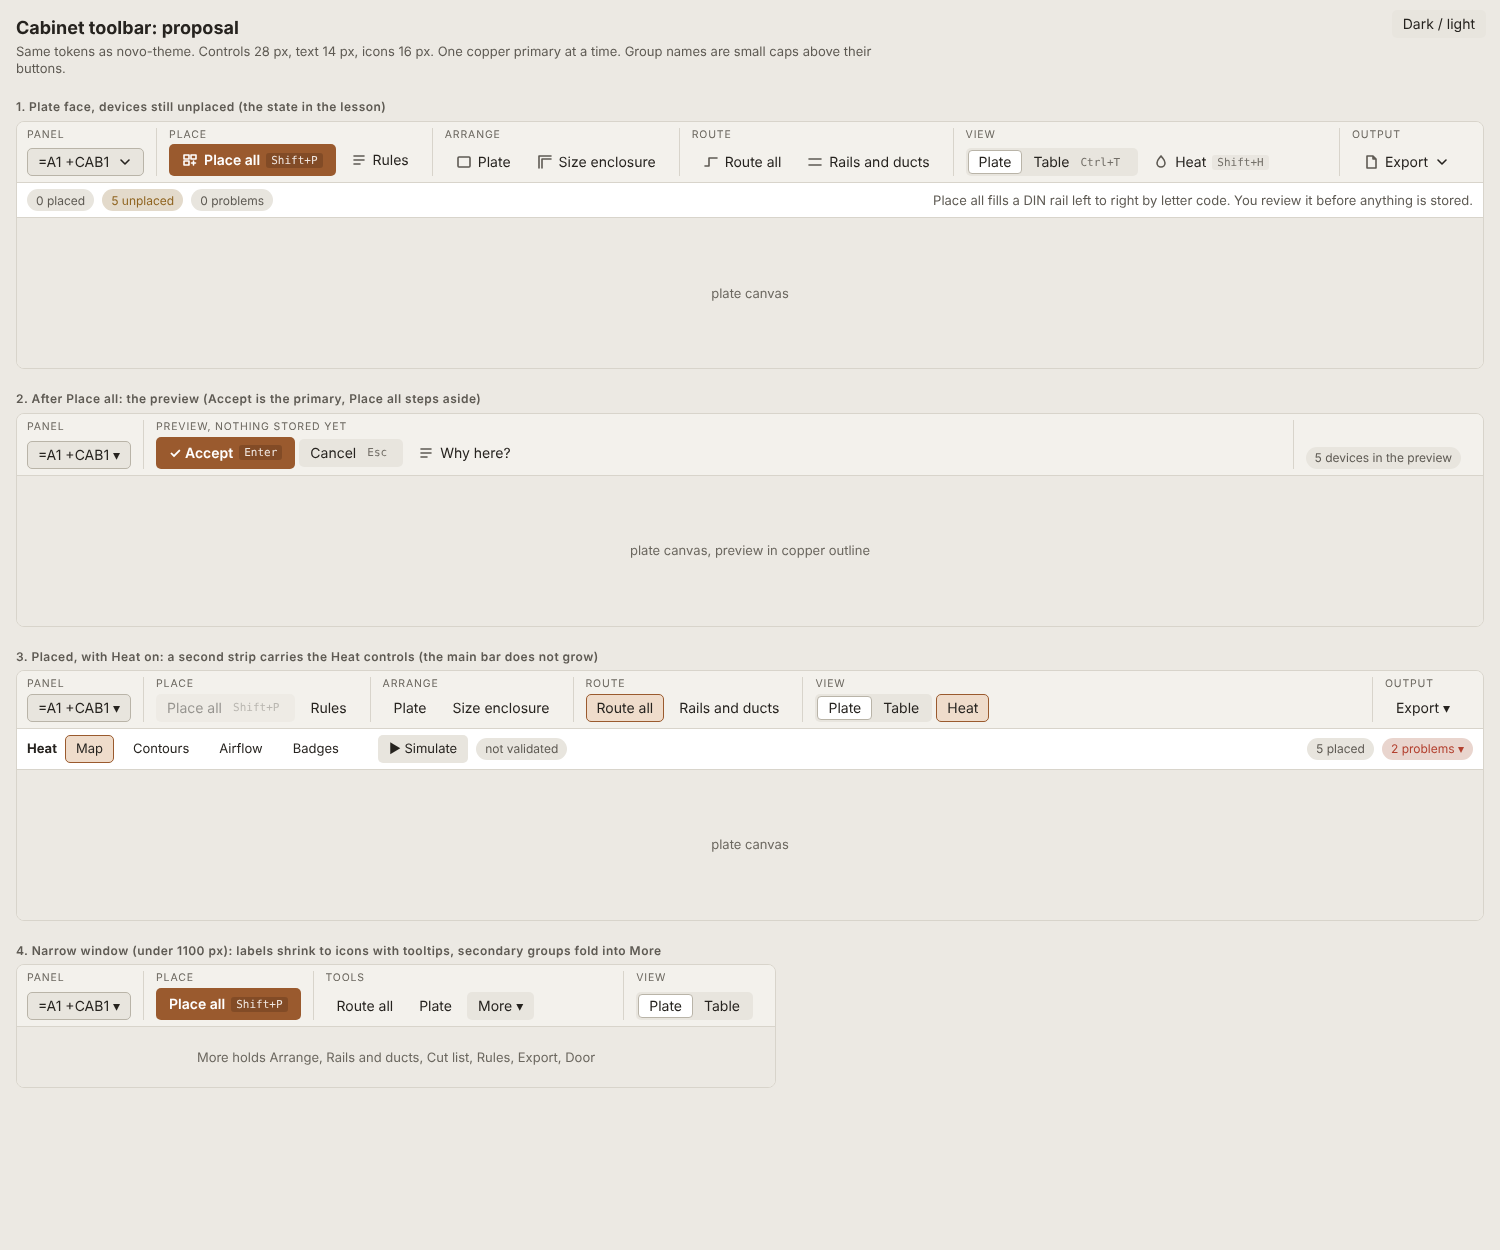
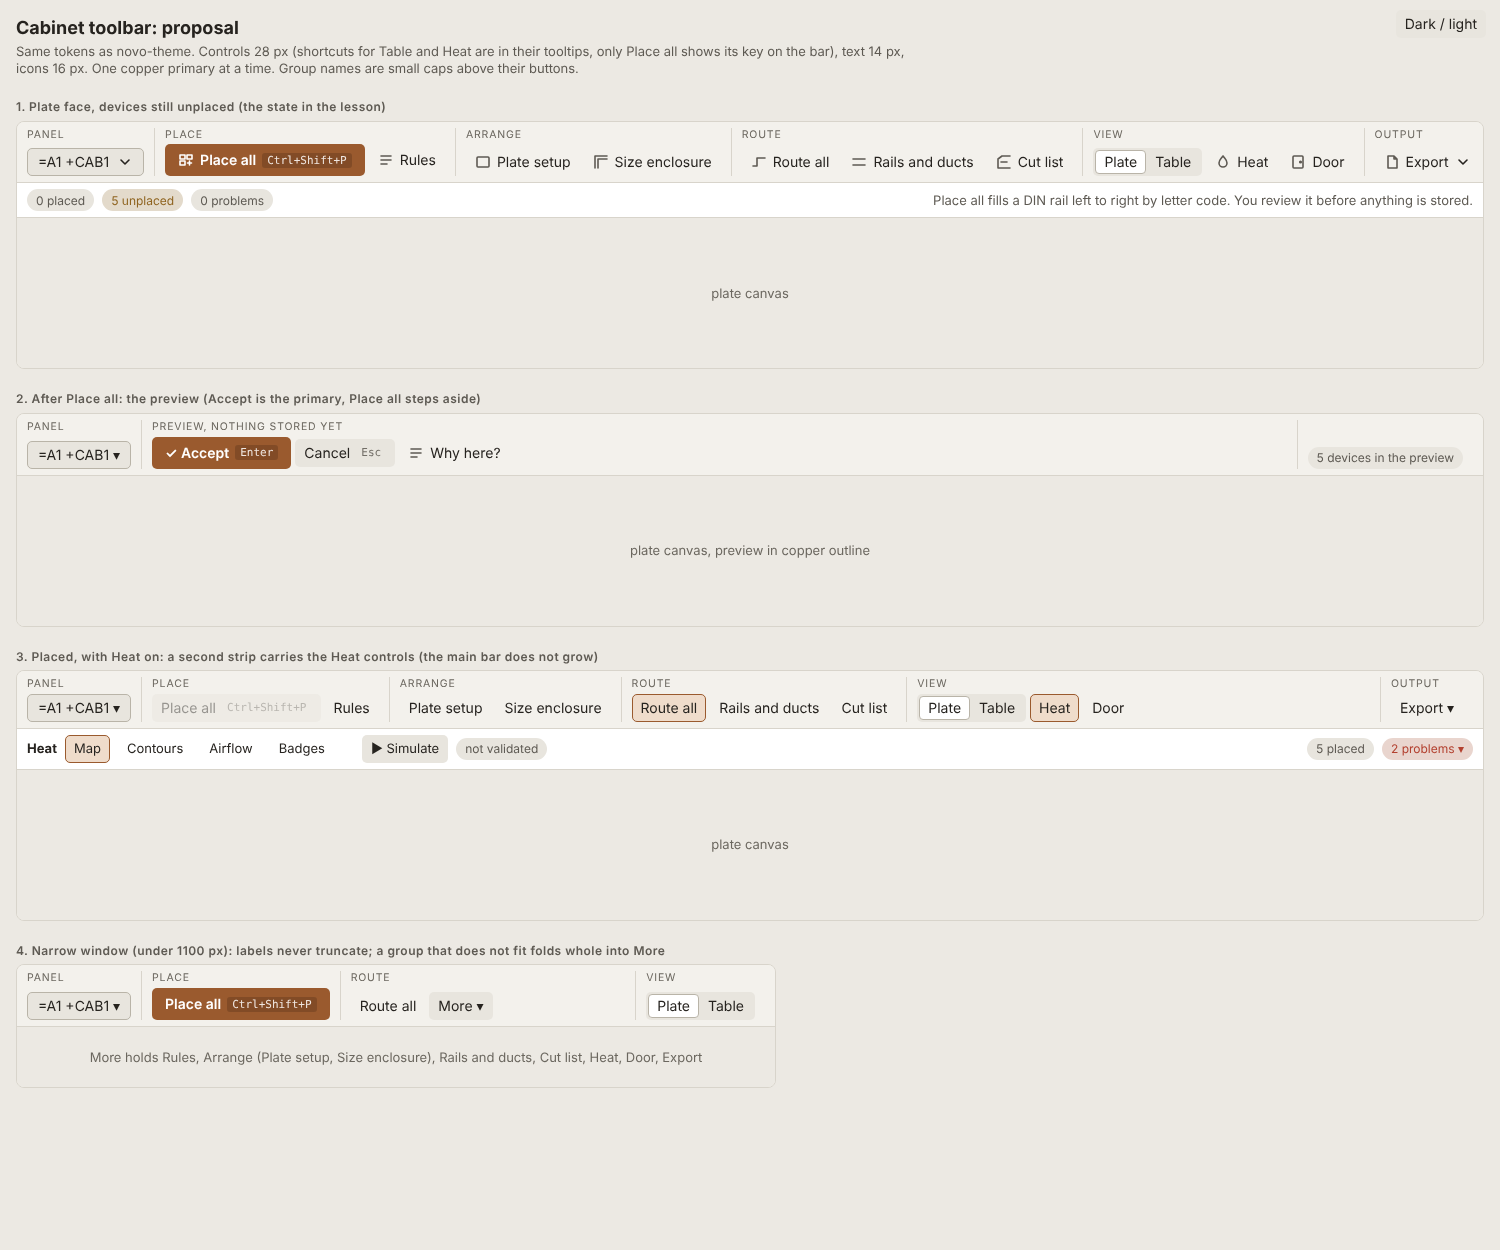
Cabinet toolbar design: Ctrl+Shift+P, Plate setup, one fold rule, mock matches note
Claude-Session: https://claude.ai/code/session_014tr2HBBMochu4Fr5mUf5Jp

diff --git a/docs/design/cabinet-toolbar/mock.html b/docs/design/cabinet-toolbar/mock.html
@@ -13,11 +13,11 @@
 .wrap{padding:16px;max-width:1500px}h2{font-size:12px;color:var(--muted);font-weight:600;margin:22px 0 6px;letter-spacing:.04em}
 .frame{background:var(--panel);border:1px solid var(--border);border-radius:8px;overflow:hidden}
 .bar{display:flex;align-items:stretch;gap:0;padding:6px 10px;border-bottom:1px solid var(--border);background:var(--panel);min-height:56px}
-.grp{display:flex;flex-direction:column;justify-content:space-between;padding:0 12px;border-left:1px solid var(--border)}
+.grp{display:flex;flex-direction:column;justify-content:space-between;padding:0 10px;border-left:1px solid var(--border)}
 .grp:first-child{border-left:0;padding-left:0}
 .cap{font-size:10.5px;letter-spacing:.08em;text-transform:uppercase;color:var(--faint);margin-bottom:3px}
 .row{display:flex;gap:4px;align-items:center}
-.btn{height:28px;display:inline-flex;align-items:center;gap:6px;padding:0 10px;border-radius:5px;border:1px solid transparent;background:transparent;color:var(--text);font:inherit;cursor:pointer;white-space:nowrap}
+.btn{height:28px;display:inline-flex;align-items:center;gap:6px;padding:0 8px;border-radius:5px;border:1px solid transparent;background:transparent;color:var(--text);font:inherit;cursor:pointer;white-space:nowrap}
 .btn:hover{background:var(--hover)}.btn.on{background:var(--wash);border-color:var(--accent);color:var(--text)}
 .btn.sec{background:var(--control)}.btn .i{width:16px;height:16px;display:inline-block;color:var(--muted)}
 .btn.on .i{color:var(--accent)}
@@ -28,7 +28,7 @@ kbd{font:11px ui-monospace,Consolas,monospace;background:rgba(0,0,0,.18);border-
 .btn:not(.primary) kbd{background:var(--control);color:var(--muted)}
 .seg{display:inline-flex;background:var(--control);border-radius:5px;padding:2px}.seg .btn{height:24px;border-radius:4px}
 .seg .btn.on{background:var(--raised);border-color:var(--border-strong)}
-.sel{height:28px;display:inline-flex;align-items:center;gap:8px;padding:0 10px;background:var(--control);border:1px solid var(--border-strong);border-radius:5px}
+.sel{white-space:nowrap;height:28px;display:inline-flex;align-items:center;gap:8px;padding:0 10px;background:var(--control);border:1px solid var(--border-strong);border-radius:5px}
 .pill{display:inline-flex;gap:6px;align-items:center;height:22px;padding:0 9px;border-radius:11px;font-size:12px;background:var(--control);color:var(--muted)}
 .pill.warn{background:color-mix(in srgb,var(--warn) 16%,var(--panel));color:var(--warn)}
 .pill.err{background:color-mix(in srgb,var(--err) 16%,var(--panel));color:var(--err)}
@@ -43,23 +43,25 @@ svg{width:16px;height:16px;stroke:currentColor;fill:none;stroke-width:1.6;stroke
 <div class="ctl"><button class="btn sec" onclick="var r=document.documentElement;r.dataset.theme=r.dataset.theme==='light'?'dark':'light'">Dark / light</button></div>
 <div class="wrap">
 <h1 style="font-size:18px;margin:0">Cabinet toolbar: proposal</h1>
-<p class="note">Same tokens as novo-theme. Controls 28 px, text 14 px, icons 16 px. One copper primary at a time. Group names are small caps above their buttons.</p>
+<p class="note">Same tokens as novo-theme. Controls 28 px (shortcuts for Table and Heat are in their tooltips, only Place all shows its key on the bar), text 14 px, icons 16 px. One copper primary at a time. Group names are small caps above their buttons.</p>
 
 <h2>1. Plate face, devices still unplaced (the state in the lesson)</h2>
 <div class="frame"><div class="bar">
  <div class="grp"><div class="cap">Panel</div><div class="row"><span class="sel">=A1 +CAB1 <svg viewBox="0 0 16 16"><path d="M4 6l4 4 4-4"/></svg></span></div></div>
  <div class="grp"><div class="cap">Place</div><div class="row">
-  <button class="btn primary"><span class="i"><svg viewBox="0 0 16 16"><path d="M2 3h5v4H2zM9 3h5v4H9zM2 9h5v4H2z"/><path d="M11.5 9v4M9.5 11h4"/></svg></span>Place all <kbd>Shift+P</kbd></button>
+  <button class="btn primary"><span class="i"><svg viewBox="0 0 16 16"><path d="M2 3h5v4H2zM9 3h5v4H9zM2 9h5v4H2z"/><path d="M11.5 9v4M9.5 11h4"/></svg></span>Place all <kbd>Ctrl+Shift+P</kbd></button>
   <button class="btn"><span class="i"><svg viewBox="0 0 16 16"><path d="M3 4h10M3 8h10M3 12h6"/></svg></span>Rules</button></div></div>
  <div class="grp"><div class="cap">Arrange</div><div class="row">
-  <button class="btn"><span class="i"><svg viewBox="0 0 16 16"><rect x="2" y="3" width="12" height="10" rx="1"/></svg></span>Plate</button>
+  <button class="btn"><span class="i"><svg viewBox="0 0 16 16"><rect x="2" y="3" width="12" height="10" rx="1"/></svg></span>Plate setup</button>
   <button class="btn"><span class="i"><svg viewBox="0 0 16 16"><path d="M2 14V2h12M5 14V5h9"/></svg></span>Size enclosure</button></div></div>
  <div class="grp"><div class="cap">Route</div><div class="row">
   <button class="btn"><span class="i"><svg viewBox="0 0 16 16"><path d="M2 12h4V4h8"/></svg></span>Route all</button>
-  <button class="btn"><span class="i"><svg viewBox="0 0 16 16"><path d="M2 5h12M2 11h12"/></svg></span>Rails and ducts</button></div></div>
+  <button class="btn"><span class="i"><svg viewBox="0 0 16 16"><path d="M2 5h12M2 11h12"/></svg></span>Rails and ducts</button>
+  <button class="btn"><span class="i"><svg viewBox="0 0 16 16"><path d="M2 5l4-3 8 0M2 5v9h12M5 8h6"/></svg></span>Cut list</button></div></div>
  <div class="grp"><div class="cap">View</div><div class="row">
-  <span class="seg"><button class="btn on">Plate</button><button class="btn">Table <kbd>Ctrl+T</kbd></button></span>
-  <button class="btn"><span class="i"><svg viewBox="0 0 16 16"><path d="M8 2c2 3 4 4 4 7a4 4 0 0 1-8 0c0-3 2-4 4-7z"/></svg></span>Heat <kbd>Shift+H</kbd></button></div></div>
+  <span class="seg"><button class="btn on">Plate</button><button class="btn">Table</button></span>
+  <button class="btn"><span class="i"><svg viewBox="0 0 16 16"><path d="M8 2c2 3 4 4 4 7a4 4 0 0 1-8 0c0-3 2-4 4-7z"/></svg></span>Heat</button>
+  <button class="btn"><span class="i"><svg viewBox="0 0 16 16"><rect x="3" y="2" width="10" height="12" rx="1"/><circle cx="10.5" cy="8" r=".8"/></svg></span>Door</button></div></div>
  <div class="sp"></div>
  <div class="grp"><div class="cap">Output</div><div class="row">
   <button class="btn"><span class="i"><svg viewBox="0 0 16 16"><path d="M4 2h6l3 3v9H4zM10 2v3h3"/></svg></span>Export <svg viewBox="0 0 16 16"><path d="M4 6l4 4 4-4"/></svg></button></div></div>
@@ -79,20 +81,20 @@ svg{width:16px;height:16px;stroke:currentColor;fill:none;stroke-width:1.6;stroke
 <h2>3. Placed, with Heat on: a second strip carries the Heat controls (the main bar does not grow)</h2>
 <div class="frame"><div class="bar">
  <div class="grp"><div class="cap">Panel</div><div class="row"><span class="sel">=A1 +CAB1 ▾</span></div></div>
- <div class="grp"><div class="cap">Place</div><div class="row"><button class="btn sec dis">Place all <kbd>Shift+P</kbd></button><button class="btn">Rules</button></div></div>
- <div class="grp"><div class="cap">Arrange</div><div class="row"><button class="btn">Plate</button><button class="btn">Size enclosure</button></div></div>
- <div class="grp"><div class="cap">Route</div><div class="row"><button class="btn on">Route all</button><button class="btn">Rails and ducts</button></div></div>
- <div class="grp"><div class="cap">View</div><div class="row"><span class="seg"><button class="btn on">Plate</button><button class="btn">Table</button></span><button class="btn on">Heat</button></div></div>
+ <div class="grp"><div class="cap">Place</div><div class="row"><button class="btn sec dis">Place all <kbd>Ctrl+Shift+P</kbd></button><button class="btn">Rules</button></div></div>
+ <div class="grp"><div class="cap">Arrange</div><div class="row"><button class="btn">Plate setup</button><button class="btn">Size enclosure</button></div></div>
+ <div class="grp"><div class="cap">Route</div><div class="row"><button class="btn on">Route all</button><button class="btn">Rails and ducts</button><button class="btn">Cut list</button></div></div>
+ <div class="grp"><div class="cap">View</div><div class="row"><span class="seg"><button class="btn on">Plate</button><button class="btn">Table</button></span><button class="btn on">Heat</button><button class="btn">Door</button></div></div>
  <div class="sp"></div><div class="grp"><div class="cap">Output</div><div class="row"><button class="btn">Export ▾</button></div></div>
 </div>
 <div class="sub"><b style="color:var(--text)">Heat</b> <button class="btn on">Map</button><button class="btn">Contours</button><button class="btn">Airflow</button><button class="btn">Badges</button><span style="width:12px"></span><button class="btn sec">▶ Simulate</button><span class="pill">not validated</span><span class="sp"></span><span class="pill">5 placed</span><span class="pill err">2 problems ▾</span></div>
 <div class="plate">plate canvas</div></div>
 
-<h2>4. Narrow window (under 1100 px): labels shrink to icons with tooltips, secondary groups fold into More</h2>
+<h2>4. Narrow window (under 1100 px): labels never truncate; a group that does not fit folds whole into More</h2>
 <div class="frame" style="max-width:760px"><div class="bar">
  <div class="grp"><div class="cap">Panel</div><div class="row"><span class="sel">=A1 +CAB1 ▾</span></div></div>
- <div class="grp"><div class="cap">Place</div><div class="row"><button class="btn primary">Place all <kbd>Shift+P</kbd></button></div></div>
- <div class="grp"><div class="cap">Tools</div><div class="row"><button class="btn">Route all</button><button class="btn">Plate</button><span class="menu"><button class="btn sec">More ▾</button></span></div></div>
+ <div class="grp"><div class="cap">Place</div><div class="row"><button class="btn primary">Place all <kbd>Ctrl+Shift+P</kbd></button></div></div>
+ <div class="grp"><div class="cap">Route</div><div class="row"><button class="btn">Route all</button><span class="menu"><button class="btn sec">More ▾</button></span></div></div>
  <div class="sp"></div><div class="grp"><div class="cap">View</div><div class="row"><span class="seg"><button class="btn on">Plate</button><button class="btn">Table</button></span></div></div>
-</div><div class="plate" style="height:60px">More holds Arrange, Rails and ducts, Cut list, Rules, Export, Door</div></div>
+</div><div class="plate" style="height:60px">More holds Rules, Arrange (Plate setup, Size enclosure), Rails and ducts, Cut list, Heat, Door, Export</div></div>
 </div></body></html>

diff --git a/docs/design/cabinet-toolbar.md b/docs/design/cabinet-toolbar.md
@@ -22,9 +22,9 @@ each group with a small-caps caption above it (`text_tertiary`):
 | --- | --- | --- |
 | Panel | panel picker; Create cabinet and Set plate when the panel has none | left edge |
 | Place | **Place all** (primary), Rules | |
-| Arrange | Plate (size and fill), Size enclosure | |
+| Arrange | Plate setup (size and fill), Size enclosure | |
 | Route | Route all, Rails and ducts, Cut list | Rails and ducts arrives with #612 |
-| View | Plate / Table segmented switch, Heat toggle, Door | |
+| View | Plate / Table segmented switch (the face), Heat toggle, Door | |
 | Output | Export menu: Plate drawing (PDF), later DXF | right edge |
 
 A status strip below carries the counts as pills (`0 placed`, `5 unplaced`,
@@ -35,7 +35,7 @@ the toolbar, so the bar holds only things you press.
 
 - The only copper (`primary_button`) control on the bar. Icon, label, and the
   shortcut shown as a `kbd` chip. New command `cabinet.place-all`, default key
-  **Shift+P** (Cabinet workspace), searchable in the command field as
+  **Ctrl+Shift+P** (Anywhere in the Cabinet workspace; Shift+P is `view.toggle_marks`, so it is not used), searchable in the command field as
   "place all"; menu: Cabinet > Place all.
 - Label says what it does when it is cheap to know: "Place all" stays the
   name (the lessons and the command use it); the tooltip says "Place the 5
@@ -57,7 +57,8 @@ the toolbar, so the bar holds only things you press.
   Rules and Export fold into a **More** menu; Place all, Route all, the panel
   picker and the Plate/Table switch always stay. Labels never truncate: a
   group that does not fit folds whole.
-- Door and rarely used actions go into More from the start.
+- Door stays in View at wide widths and folds into More with its group. Order of folding, last to first: Output, View's Heat and Door, Route's Rails and ducts and Cut list, Arrange, Rules. Place all, Route all, the panel picker and the Plate/Table switch never fold.
+- One rule: labels are never shortened or turned into icon-only buttons; whole groups fold into More.
 
 ### Design system fit
 
@@ -79,7 +80,7 @@ only promises the bar is not the cause.)
 ## Where the user finds it
 
 Ctrl+2 (Cabinet), then the bar across the top of the plate. Place all is the
-copper button on the left of the bar, or Shift+P, or the command field.
+copper button on the left of the bar, or Ctrl+Shift+P, or the command field.
 
 ## Build plan (small PRs, in this order)
 
@@ -94,5 +95,5 @@ copper button on the left of the bar, or Shift+P, or the command field.
 
 ## Open questions for the reviewers
 
-- Shift+P as the key for Place all: any conflict in the keymap?
+- Ctrl+Shift+P as the key for Place all: any conflict in the keymap?
 - Group captions: keep always, or only above 1400 px?
